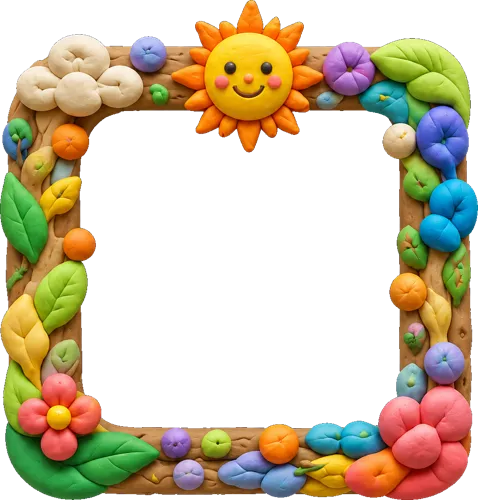
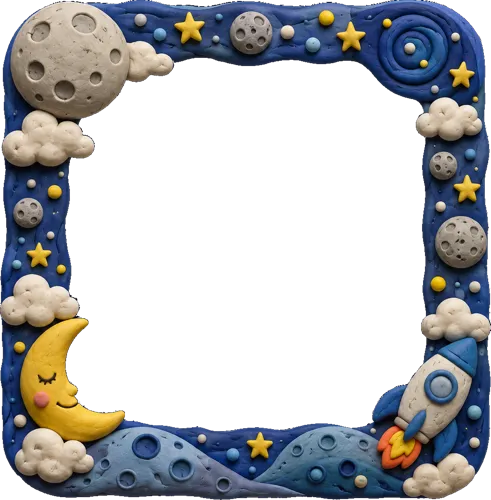
Webbing achievements images + special frame design change

diff --git a/src/components/Achievement/Image/achievementImage.module.scss b/src/components/Achievement/Image/achievementImage.module.scss
@@ -81,7 +81,6 @@
     }
 
     &_special {
-      inset: -16px -12px -9px;
       background-image: url( "../../../assets/img/achievements/frame-special_1.webp" );
     }
   }
